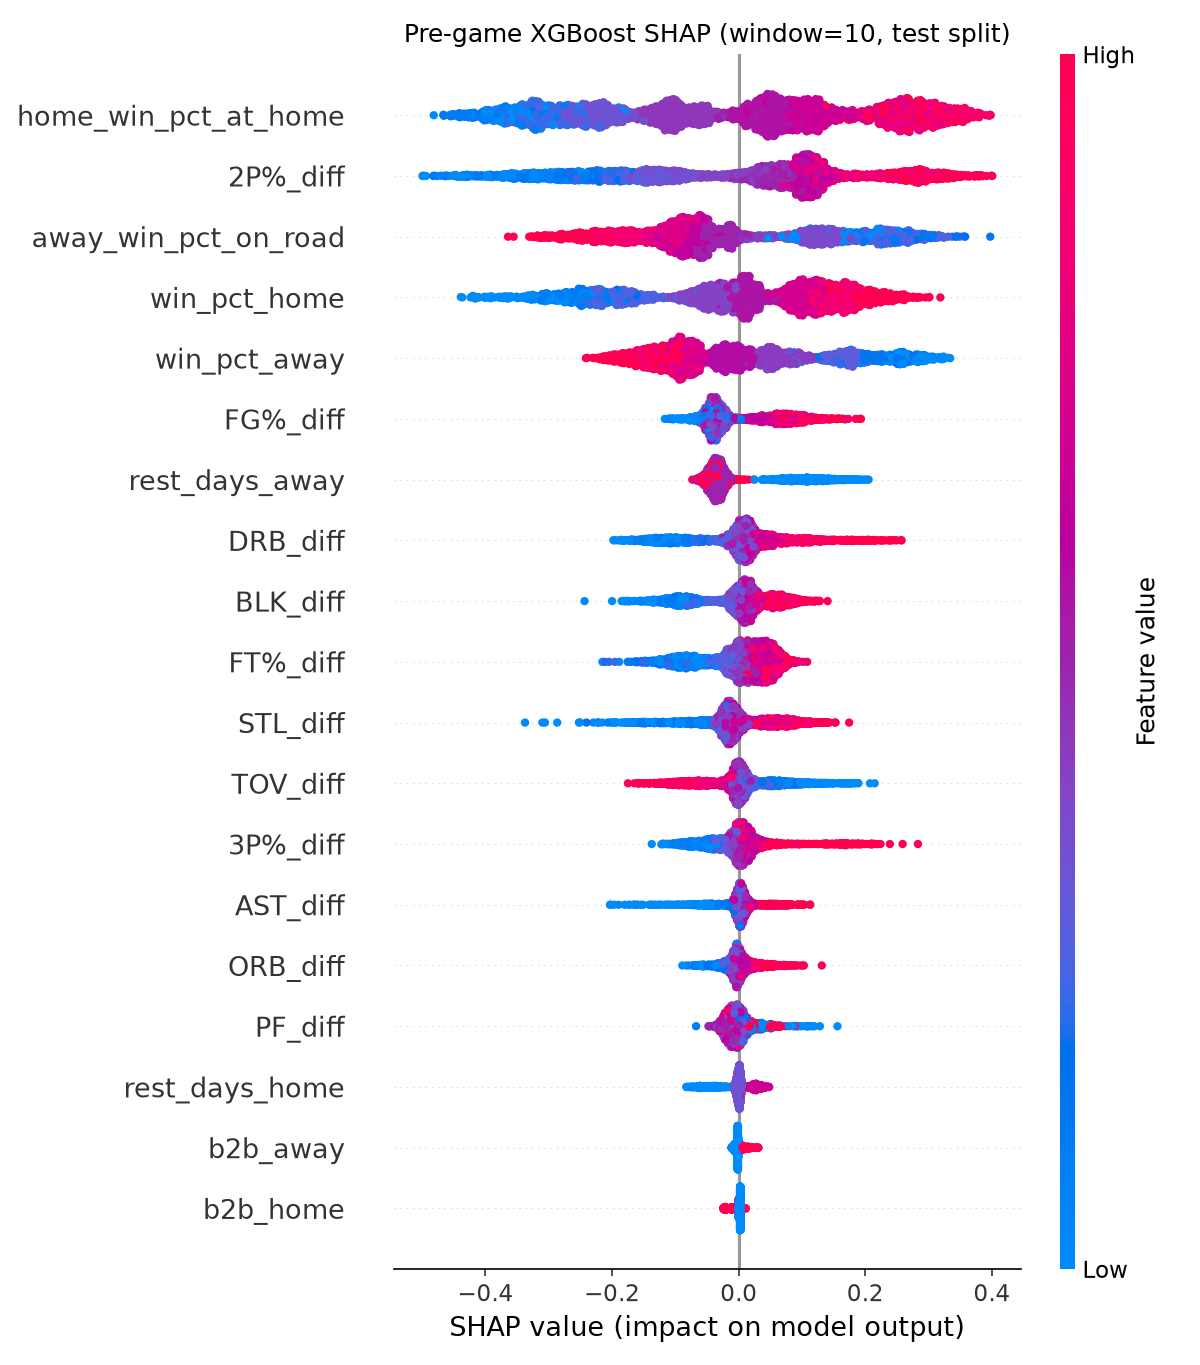
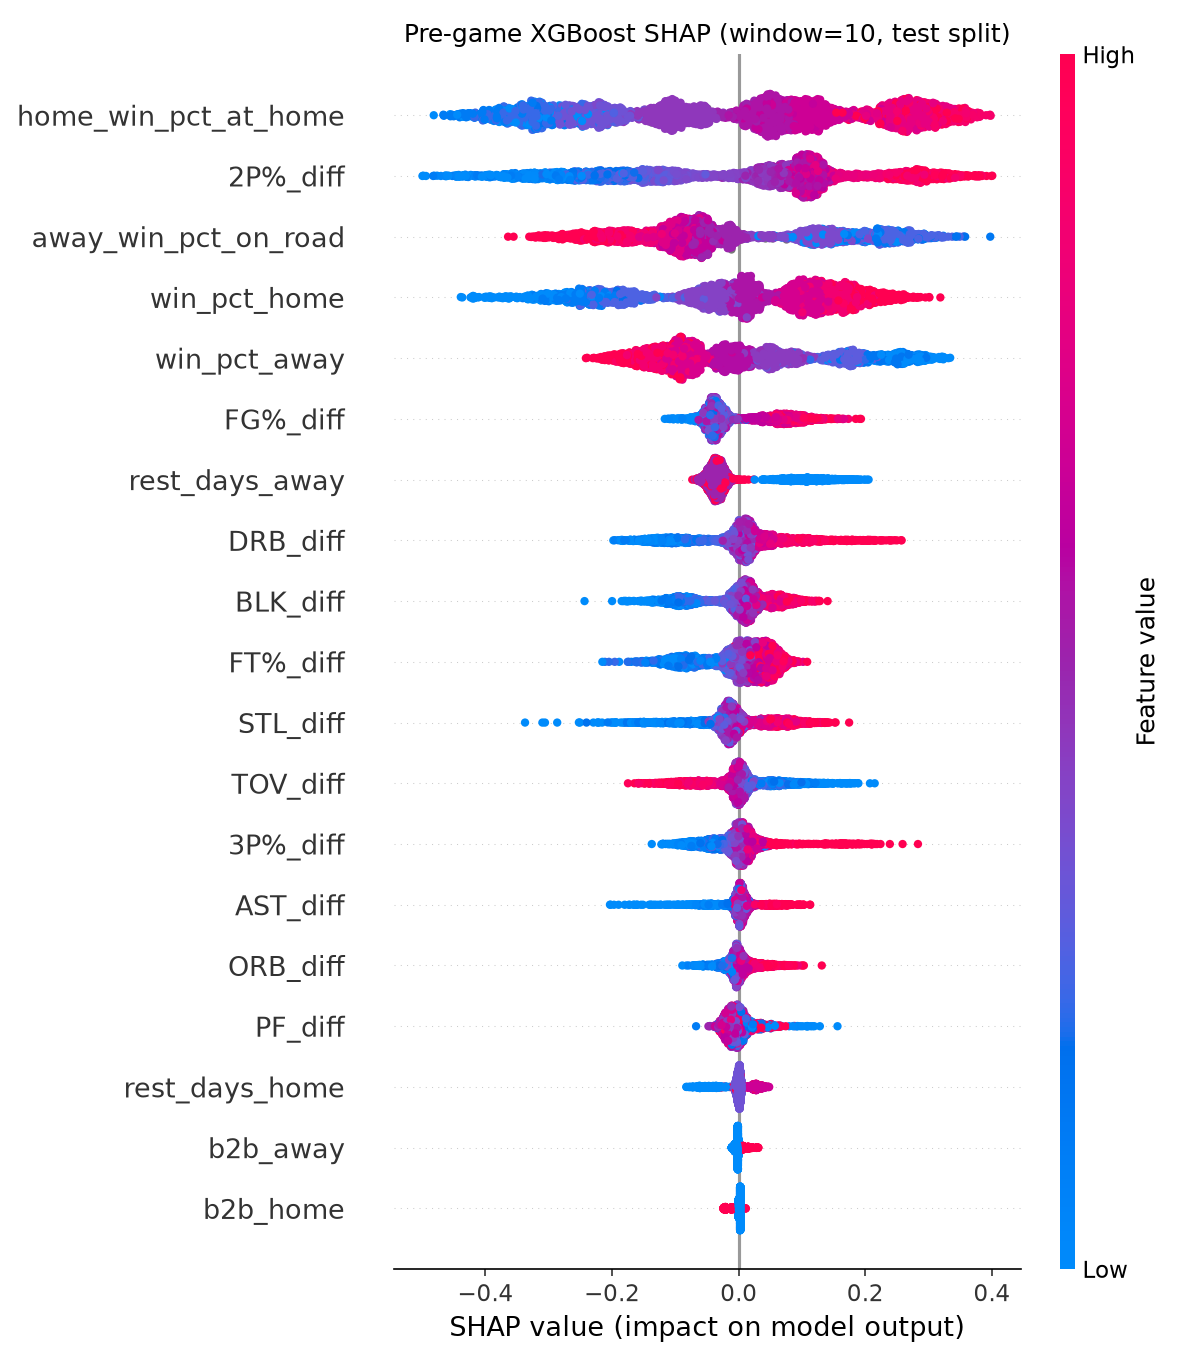
Regenerate section 5 SHAP on the 3,386 test games; keep the 3,390 files as superseded

diff --git a/results/pregame/shap_superseded_n3390/shap_w10.md b/results/pregame/shap_superseded_n3390/shap_w10.md
@@ -1,0 +1,43 @@
+# SHAP rankings: pre-game XGBoost (window=10, test split, n=3390)
+
+## All features (mean |SHAP|)
+
+|                      |   rank |   mean_abs_shap |
+|:---------------------|-------:|----------------:|
+| home_win_pct_at_home |      1 |          0.1926 |
+| 2P%_diff             |      2 |          0.1622 |
+| away_win_pct_on_road |      3 |          0.1336 |
+| win_pct_home         |      4 |          0.1276 |
+| win_pct_away         |      5 |          0.1086 |
+| FG%_diff             |      6 |          0.0512 |
+| rest_days_away       |      7 |          0.0486 |
+| DRB_diff             |      8 |          0.0482 |
+| BLK_diff             |      9 |          0.0417 |
+| FT%_diff             |     10 |          0.0408 |
+| STL_diff             |     11 |          0.0385 |
+| TOV_diff             |     12 |          0.0344 |
+| 3P%_diff             |     13 |          0.0297 |
+| AST_diff             |     14 |          0.0162 |
+| ORB_diff             |     15 |          0.0153 |
+| PF_diff              |     16 |          0.0147 |
+| rest_days_home       |     17 |          0.0138 |
+| b2b_away             |     18 |          0.0039 |
+| b2b_home             |     19 |          0.0027 |
+
+## The paper's 11 categories only, vs. parent paper Table 10
+
+|   Rank | Pre-game (ours)   | Paper H2   | Paper H3   | Paper Full game   |
+|-------:|:------------------|:-----------|:-----------|:------------------|
+|      1 | 2P%               | FG%        | FG%        | FG%               |
+|      2 | FG%               | DRB        | TOV        | 3P%               |
+|      3 | DRB               | AST        | 3P%        | TOV               |
+|      4 | BLK               | TOV        | DRB        | DRB               |
+|      5 | FT%               | FT%        | ORB        | ORB               |
+|      6 | STL               | PF         | FT%        | PF                |
+|      7 | TOV               | STL        | PF         | FT%               |
+|      8 | 3P%               | 3P%        | AST        | 2P%               |
+|      9 | AST               | ORB        | STL        | AST               |
+|     10 | ORB               | 2P%        | 2P%        | STL               |
+|     11 | PF                | BLK        | BLK        | BLK               |
+
+Spearman rank correlation with the paper's order: H2 0.07, H3 -0.06, Full game -0.01

diff --git a/results/pregame/shap_superseded_n3390/shap_w20.md b/results/pregame/shap_superseded_n3390/shap_w20.md
@@ -1,0 +1,43 @@
+# SHAP rankings: pre-game XGBoost (window=20, test split, n=3390)
+
+## All features (mean |SHAP|)
+
+|                      |   rank |   mean_abs_shap |
+|:---------------------|-------:|----------------:|
+| win_pct_home         |      1 |          0.1969 |
+| win_pct_away         |      2 |          0.1613 |
+| home_win_pct_at_home |      3 |          0.1425 |
+| away_win_pct_on_road |      4 |          0.1136 |
+| 2P%_diff             |      5 |          0.113  |
+| FG%_diff             |      6 |          0.064  |
+| DRB_diff             |      7 |          0.0476 |
+| BLK_diff             |      8 |          0.0357 |
+| TOV_diff             |      9 |          0.0332 |
+| STL_diff             |     10 |          0.032  |
+| rest_days_away       |     11 |          0.0304 |
+| FT%_diff             |     12 |          0.0271 |
+| 3P%_diff             |     13 |          0.0249 |
+| b2b_away             |     14 |          0.014  |
+| PF_diff              |     15 |          0.0116 |
+| AST_diff             |     16 |          0.0089 |
+| ORB_diff             |     17 |          0.0063 |
+| rest_days_home       |     18 |          0.0042 |
+| b2b_home             |     19 |          0.0009 |
+
+## The paper's 11 categories only, vs. parent paper Table 10
+
+|   Rank | Pre-game (ours)   | Paper H2   | Paper H3   | Paper Full game   |
+|-------:|:------------------|:-----------|:-----------|:------------------|
+|      1 | 2P%               | FG%        | FG%        | FG%               |
+|      2 | FG%               | DRB        | TOV        | 3P%               |
+|      3 | DRB               | AST        | 3P%        | TOV               |
+|      4 | BLK               | TOV        | DRB        | DRB               |
+|      5 | TOV               | FT%        | ORB        | ORB               |
+|      6 | STL               | PF         | FT%        | PF                |
+|      7 | FT%               | STL        | PF         | FT%               |
+|      8 | 3P%               | 3P%        | AST        | 2P%               |
+|      9 | PF                | ORB        | STL        | AST               |
+|     10 | AST               | 2P%        | 2P%        | STL               |
+|     11 | ORB               | BLK        | BLK        | BLK               |
+
+Spearman rank correlation with the paper's order: H2 0.09, H3 0.00, Full game 0.08

diff --git a/results/pregame/shap_w20.md b/results/pregame/shap_w20.md
@@ -1,25 +1,25 @@
-# SHAP rankings: pre-game XGBoost (window=20, test split, n=3390)
+# SHAP rankings: pre-game XGBoost (window=20, test split, n=3386)
 
 ## All features (mean |SHAP|)
 
 |                      |   rank |   mean_abs_shap |
 |:---------------------|-------:|----------------:|
-| win_pct_home         |      1 |          0.1969 |
+| win_pct_home         |      1 |          0.1968 |
 | win_pct_away         |      2 |          0.1613 |
-| home_win_pct_at_home |      3 |          0.1425 |
-| away_win_pct_on_road |      4 |          0.1136 |
-| 2P%_diff             |      5 |          0.113  |
+| home_win_pct_at_home |      3 |          0.1426 |
+| away_win_pct_on_road |      4 |          0.1137 |
+| 2P%_diff             |      5 |          0.1129 |
 | FG%_diff             |      6 |          0.064  |
-| DRB_diff             |      7 |          0.0476 |
+| DRB_diff             |      7 |          0.0475 |
 | BLK_diff             |      8 |          0.0357 |
-| TOV_diff             |      9 |          0.0332 |
+| TOV_diff             |      9 |          0.0331 |
 | STL_diff             |     10 |          0.032  |
 | rest_days_away       |     11 |          0.0304 |
 | FT%_diff             |     12 |          0.0271 |
 | 3P%_diff             |     13 |          0.0249 |
 | b2b_away             |     14 |          0.014  |
 | PF_diff              |     15 |          0.0116 |
-| AST_diff             |     16 |          0.0089 |
+| AST_diff             |     16 |          0.0088 |
 | ORB_diff             |     17 |          0.0063 |
 | rest_days_home       |     18 |          0.0042 |
 | b2b_home             |     19 |          0.0009 |

diff --git a/results/pregame/shap_w10.md b/results/pregame/shap_w10.md
@@ -1,22 +1,22 @@
-# SHAP rankings: pre-game XGBoost (window=10, test split, n=3390)
+# SHAP rankings: pre-game XGBoost (window=10, test split, n=3386)
 
 ## All features (mean |SHAP|)
 
 |                      |   rank |   mean_abs_shap |
 |:---------------------|-------:|----------------:|
 | home_win_pct_at_home |      1 |          0.1926 |
-| 2P%_diff             |      2 |          0.1622 |
-| away_win_pct_on_road |      3 |          0.1336 |
-| win_pct_home         |      4 |          0.1276 |
+| 2P%_diff             |      2 |          0.1621 |
+| away_win_pct_on_road |      3 |          0.1337 |
+| win_pct_home         |      4 |          0.1275 |
 | win_pct_away         |      5 |          0.1086 |
-| FG%_diff             |      6 |          0.0512 |
-| rest_days_away       |      7 |          0.0486 |
+| FG%_diff             |      6 |          0.0511 |
+| rest_days_away       |      7 |          0.0487 |
 | DRB_diff             |      8 |          0.0482 |
-| BLK_diff             |      9 |          0.0417 |
+| BLK_diff             |      9 |          0.0416 |
 | FT%_diff             |     10 |          0.0408 |
 | STL_diff             |     11 |          0.0385 |
 | TOV_diff             |     12 |          0.0344 |
-| 3P%_diff             |     13 |          0.0297 |
+| 3P%_diff             |     13 |          0.0295 |
 | AST_diff             |     14 |          0.0162 |
 | ORB_diff             |     15 |          0.0153 |
 | PF_diff              |     16 |          0.0147 |

diff --git a/docs/findings.md b/docs/findings.md
@@ -242,11 +242,13 @@ values (0.769/0.846, 0.818/0.897, 0.902/0.964); those do not appear in the paper
 ## 5. SHAP: pre-game model vs parent paper 1
 
 Both official pre-game models (11 stats + context, no scoring margin) were explained on the test
-split (n = 3,390), ranking features by mean |SHAP|. This ran before the leakage fix. The fix
-touched neither these models nor their features, and removed only 4 of these test games, so the
-rankings stand. Window=20 is the primary model. The window=10
-results are from the previous check-in and unchanged. Files: `results/pregame/shap_w20.md` and
-`shap_w10.md`, with bar and beeswarm plots for each window.
+split (n = 3,386), ranking features by mean |SHAP|. Window=20 is the primary model. Files:
+`results/pregame/shap_w20.md` and `shap_w10.md`, with bar and beeswarm plots for each window.
+
+These files were regenerated on the corrected test set; the earlier run used n = 3,390, before the
+leakage fix removed 4 test games. Every ranking below is unchanged in both windows. Mean |SHAP|
+moved by at most 0.0002, which leaves the group shares and Spearman correlations below as they
+were. The earlier files are in `results/pregame/shap_superseded_n3390/`.
 
 ### 5a. All features
 

diff --git a/results/pregame/shap_superseded_n3390/README.md b/results/pregame/shap_superseded_n3390/README.md
@@ -1,0 +1,8 @@
+# SHAP files for n = 3,390 test games (superseded)
+
+These files were made before the leakage fix removed 4 test games. The current files, for
+n = 3,386, are in the parent directory. See `docs/findings.md` §5.
+
+Feature rankings are identical in both windows, and so are the paper-comparison tables and Spearman
+correlations. Mean |SHAP| moved by at most 0.0002; 7 of the 19 values in each window changed at
+4 decimals.
